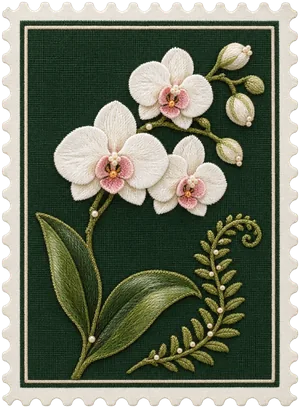
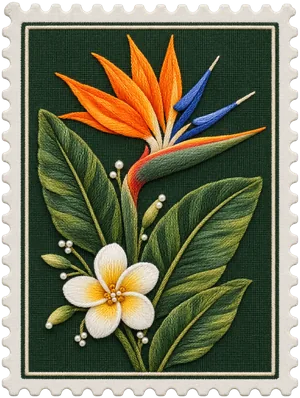
Coastal flowers, 2pm arrival, running order, pop of colour
- Every floral piece redrawn in bright coastal colour (bougainvillea,
  hibiscus, frangipani, bird-of-paradise) to match the dress code,
  including the cover arch, stamp, liner, cake and gramophone
- The Celebrations (where and when) now comes before The Details, which
  is a running order: arrive 2pm, ceremony 3pm, reception and dinner,
  carriages 11pm
- Dress code drops the accessories picture for a pop-of-colour note
- Calendar entry starts at the 2pm arrival

diff --git a/index.html b/index.html
@@ -47,8 +47,8 @@
 <!-- ============ THE ENVELOPE (shown first, opened by script.js) ============ -->
 <div class="scene" id="scene">
   <div class="scene-vignette" id="scene-vignette"></div>
-  <img class="scene-sprig scene-sprig--top" src="assets/florals-corner.webp" width="640" height="637" alt="">
-  <img class="scene-sprig scene-sprig--bottom" src="assets/fern-spray.webp" width="680" height="846" alt="">
+  <img class="scene-sprig scene-sprig--top" src="assets/coastal-corner.webp" width="640" height="667" alt="">
+  <img class="scene-sprig scene-sprig--bottom" src="assets/coastal-spray.webp" width="680" height="748" alt="">
 
   <div class="envelope" id="envelope" aria-hidden="true">
     <div class="env-back is-hidden" id="env-back">
@@ -78,7 +78,7 @@
     </div>
 
     <div class="env-front" id="env-front">
-      <img class="env-stamp" src="assets/stamp.webp" width="300" height="408" alt="">
+      <img class="env-stamp" src="assets/stamp.webp" width="300" height="398" alt="">
       <svg class="env-postmark" viewBox="0 0 200 80" focusable="false">
         <defs>
           <path id="pm-top" d="M 13 40 A 27 27 0 0 1 67 40"/>
@@ -106,7 +106,7 @@
         </g>
       </svg>
       <p class="env-to"><span class="env-recipient" id="recipient">To our favourite people</span></p>
-      <img class="env-sprig" src="assets/fern-frond.webp" width="720" height="477" alt="">
+      <img class="env-sprig" src="assets/coastal-sprig.webp" width="720" height="501" alt="">
     </div>
   </div>
 
@@ -119,8 +119,8 @@
 <!-- Wide screens only: the same sprigs as on the envelope's table, so the
      page keeps the setting once the letter is open. -->
 <div class="table-decor" id="table-decor" aria-hidden="true">
-  <img class="table-sprig table-sprig--top" src="assets/florals-corner.webp" width="640" height="637" alt="">
-  <img class="table-sprig table-sprig--bottom" src="assets/fern-spray.webp" width="680" height="846" alt="">
+  <img class="table-sprig table-sprig--top" src="assets/coastal-corner.webp" width="640" height="667" alt="">
+  <img class="table-sprig table-sprig--bottom" src="assets/coastal-spray.webp" width="680" height="748" alt="">
 </div>
 
 <main class="suite" id="invitation">
@@ -129,7 +129,7 @@
   <header class="hero" id="top">
     <article class="hero-card" id="hero-card" tabindex="-1">
       <p class="eyebrow">The wedding of</p>
-      <img class="hero-arch" src="assets/hero-arch.webp" width="997" height="1497" alt="Benjamin and Talisha in a black-and-white photograph, framed by an embroidered stone arch of roses, orchids and hanging pearls">
+      <img class="hero-arch" src="assets/hero-arch.webp" width="974" height="1499" alt="Benjamin and Talisha in a black-and-white photograph, framed by an embroidered stone arch of bougainvillea, hibiscus and frangipani">
       <h1 class="names">Benjamin <span class="amp">&amp;</span> Talisha</h1>
       <p class="hero-date">Saturday · 6 March 2027</p>
       <p class="hero-place">Collisheen Estate · Ballito</p>
@@ -139,8 +139,8 @@
 
   <!-- ============ 2. INVITATION + COUNTDOWN ============ -->
   <section class="families" id="invite" aria-labelledby="invite-title">
-    <img class="garland garland--left" src="assets/florals-vertical.webp" width="289" height="1200" alt="" loading="lazy" decoding="async">
-    <img class="garland garland--right" src="assets/florals-vertical.webp" width="289" height="1200" alt="" loading="lazy" decoding="async">
+    <img class="garland garland--left" src="assets/coastal-garland.webp" width="327" height="1200" alt="" loading="lazy" decoding="async">
+    <img class="garland garland--right" src="assets/coastal-garland.webp" width="327" height="1200" alt="" loading="lazy" decoding="async">
 
     <h2 class="script-title" id="invite-title">Please join us</h2>
     <p class="lede invite-lede">as we say &ldquo;I do&rdquo; in a little chapel among the trees</p>
@@ -158,36 +158,13 @@
       <p class="caps">Add it to your calendar</p>
       <p class="calendar-links">
         <a class="text-link" href="assets/wedding.ics">Apple &amp; Outlook</a>
-        <a class="text-link" href="https://calendar.google.com/calendar/render?action=TEMPLATE&amp;text=Benjamin%20%26%20Talisha%27s%20Wedding&amp;dates=20270306T130000Z%2F20270306T210000Z&amp;location=Orchid%20House%2C%20Collisheen%20Estate%2C%20Esenembi%20Road%2C%20Ballito&amp;details=Ceremony%20at%203pm%20in%20the%20chapel%20at%20Orchid%20House%2C%20with%20the%20reception%20to%20follow.%20https%3A%2F%2Fbenrodrigues05.github.io%2Frodrigues-wedding%2F" target="_blank" rel="noopener">Google Calendar</a>
+        <a class="text-link" href="https://calendar.google.com/calendar/render?action=TEMPLATE&amp;text=Benjamin%20%26%20Talisha%27s%20Wedding&amp;dates=20270306T120000Z%2F20270306T210000Z&amp;location=Orchid%20House%2C%20Collisheen%20Estate%2C%20Esenembi%20Road%2C%20Ballito&amp;details=Please%20arrive%20by%202pm.%20Ceremony%20at%203pm%20in%20the%20chapel%20at%20Orchid%20House%2C%20reception%20to%20follow%20until%2011pm.%20https%3A%2F%2Fbenrodrigues05.github.io%2Frodrigues-wedding%2F" target="_blank" rel="noopener">Google Calendar</a>
       </p>
     </div>
   </section>
 
 
-  <!-- ============ 3. THE DETAILS (striped linen) ============ -->
-  <section class="details" id="details" aria-labelledby="details-title">
-    <div class="details-panel">
-      <img class="motif details-tl" src="assets/fern-spray.webp" width="680" height="846" alt="" loading="lazy" decoding="async">
-      <img class="motif details-tr" src="assets/lanterns.webp" width="434" height="640" alt="" loading="lazy" decoding="async">
-      <h2 class="script-title details-title" id="details-title">The Details</h2>
-
-      <div class="event">
-        <h3 class="script-sub">The Ceremony</h3>
-        <p class="lines"><span>Orchid House Chapel</span><span>Saturday 6 March 2027</span><span>3:00 pm</span></p>
-      </div>
-      <span class="pearl-rule" aria-hidden="true"></span>
-      <div class="event">
-        <h3 class="script-sub">The Reception</h3>
-        <p class="lines"><span>Orchid House</span><span>After the ceremony</span><span>Until 11:00 pm</span></p>
-      </div>
-
-      <img class="motif details-bl" src="assets/champagne.webp" width="520" height="579" alt="" loading="lazy" decoding="async">
-      <img class="motif details-br" src="assets/cake.webp" width="409" height="640" alt="" loading="lazy" decoding="async">
-    </div>
-  </section>
-
-
-  <!-- ============ 4. THE VENUE ============ -->
+  <!-- ============ 3. THE CELEBRATIONS: where and when ============ -->
   <section class="celebrations" id="venue" aria-labelledby="venue-title">
     <h2 class="script-title" id="venue-title">The Celebrations</h2>
     <img class="motif chapel" src="assets/chapel.webp" width="1000" height="745" alt="An embroidered white chapel with a green roof beneath huge old trees strung with fairy lights" loading="lazy" decoding="async">
@@ -196,10 +173,46 @@
       <h3 class="venue-name">Orchid House</h3>
       <p class="venue-desc">A garden chapel ceremony beneath the old trees of Collisheen Estate, with the reception to follow under the fairy lights</p>
       <span class="rule" aria-hidden="true"></span>
-      <p class="venue-when"><span>Saturday 6 March 2027</span><span>3:00 pm until 11:00 pm</span></p>
+      <p class="venue-when"><span>Saturday 6 March 2027</span><span>Please arrive by 2:00 pm</span><span class="venue-when-small">for the ceremony at 3:00 pm</span></p>
       <p class="venue-address"><span>Collisheen Estate</span><span>Esenembi Road, Ballito</span></p>
       <a class="text-link" href="https://www.google.com/maps/search/?api=1&amp;query=Collisheen%20Estate%20Ballito" target="_blank" rel="noopener">View on map</a>
       <img class="venue-key" src="assets/key.webp" width="257" height="360" alt="" loading="lazy" decoding="async">
+    </div>
+  </section>
+
+
+  <!-- ============ 4. THE DETAILS: the running order (striped linen) ============ -->
+  <section class="details" id="details" aria-labelledby="details-title">
+    <div class="details-panel">
+      <img class="motif details-tl" src="assets/coastal-spray.webp" width="680" height="748" alt="" loading="lazy" decoding="async">
+      <img class="motif details-tr" src="assets/lanterns.webp" width="434" height="640" alt="" loading="lazy" decoding="async">
+      <h2 class="script-title details-title" id="details-title">The Details</h2>
+
+      <!-- TODO: reception and dinner times when confirmed -->
+      <ol class="timeline">
+        <li class="moment">
+          <p class="moment-time">2:00 pm</p>
+          <h3 class="script-sub">Guests arrive</h3>
+        </li>
+        <li class="moment">
+          <p class="moment-time">3:00 pm</p>
+          <h3 class="script-sub">The Ceremony</h3>
+          <p class="moment-note">Orchid House Chapel</p>
+        </li>
+        <li class="moment">
+          <p class="moment-time">To follow</p>
+          <h3 class="script-sub">Reception &amp; Dinner</h3>
+          <p class="moment-note">Orchid House</p>
+        </li>
+        <li class="moment">
+          <p class="moment-time">11:00 pm</p>
+          <h3 class="script-sub">Carriages</h3>
+          <p class="moment-note">Time to say goodnight</p>
+        </li>
+      </ol>
+
+      <img class="motif details-bl" src="assets/champagne.webp" width="520" height="579" alt="" loading="lazy" decoding="async">
+      <img class="motif details-br" src="assets/cake.webp" width="385" height="640" alt="" loading="lazy" decoding="async">
     </div>
   </section>
 
@@ -208,8 +221,8 @@
   <section class="dress" id="dress-code" aria-labelledby="dress-title">
     <div class="napkin">
       <div class="napkin-sprigs">
-        <img class="motif" src="assets/fern-spray.webp" width="680" height="846" alt="" loading="lazy" decoding="async">
-        <img class="motif" src="assets/fern-frond.webp" width="720" height="477" alt="" loading="lazy" decoding="async">
+        <img class="motif" src="assets/coastal-corner.webp" width="640" height="667" alt="" loading="lazy" decoding="async">
+        <img class="motif" src="assets/coastal-sprig.webp" width="720" height="501" alt="" loading="lazy" decoding="async">
       </div>
       <img class="motif guests" src="assets/guests.webp" width="1100" height="697" alt="Embroidered guests in terracotta, orange, marigold, chartreuse, fuchsia and plum gowns, and sand and forest-green suits" loading="lazy" decoding="async">
       <h2 class="script-title" id="dress-title">Dress Code</h2>
@@ -217,14 +230,17 @@
       <p class="lines lines--soft"><span>Bold, joyful colour</span><span>Silks, ruffles &amp; a little sparkle</span><span>Please avoid white</span></p>
       <img class="motif threads" src="assets/threads.webp" width="1000" height="396" alt="Spools of thread in terracotta, orange, marigold, chartreuse, emerald, fuchsia and plum" loading="lazy" decoding="async">
       <p class="palette-note">Think terracotta, marigold, chartreuse, emerald, fuchsia and plum.</p>
-      <img class="motif accessories" src="assets/accessories.webp" width="960" height="383" alt="" loading="lazy" decoding="async">
+      <div class="pop">
+        <p class="script-sub pop-title">A pop of colour</p>
+        <p class="pop-note">No need to buy a whole new outfit. If your best dress or suit isn&rsquo;t in these shades, add a splash of colour instead: a bright tie or bow tie with a dark suit, or a hat, fascinator or scarf that matches the palette.</p>
+      </div>
     </div>
   </section>
 
 
   <!-- ============ 6. WHERE TO STAY ============ -->
   <section class="stay" id="stay" aria-labelledby="stay-title">
-    <img class="motif nightstand" src="assets/nightstand.webp" width="235" height="480" alt="" loading="lazy" decoding="async">
+    <img class="motif nightstand" src="assets/nightstand.webp" width="295" height="480" alt="" loading="lazy" decoding="async">
     <h2 class="script-title" id="stay-title">Where to Stay</h2>
     <p class="caps">Good-value stays near Ballito Junction</p>
     <p class="lede">Ballito Junction is a short drive from the venue, with plenty of places to eat nearby. A few of our picks:</p>
@@ -272,7 +288,7 @@
   <!-- ============ 8. RSVP (reply card) ============ -->
   <section class="rsvp" id="rsvp" aria-labelledby="rsvp-title">
     <div class="reply-card">
-      <img class="reply-stamp" src="assets/stamp.webp" width="300" height="408" alt="" loading="lazy" decoding="async">
+      <img class="reply-stamp" src="assets/stamp.webp" width="300" height="398" alt="" loading="lazy" decoding="async">
       <h2 class="script-title" id="rsvp-title">Kindly Reply</h2>
       <p class="reply-by">by 1 December 2026</p>
       <p class="reply-note">One reply covers everyone your invitation is addressed to.</p>
@@ -335,7 +351,7 @@
   <!-- ============ 9. THE PLAYLIST (fringed napkin) ============ -->
   <section class="playlist" id="playlist" aria-labelledby="playlist-title">
     <div class="napkin napkin--playlist">
-      <img class="motif gramophone" src="assets/gramophone.webp" width="640" height="683" alt="" loading="lazy" decoding="async">
+      <img class="motif gramophone" src="assets/gramophone.webp" width="640" height="762" alt="" loading="lazy" decoding="async">
       <h2 class="script-title" id="playlist-title">The Playlist</h2>
       <p class="lede">Which songs get you on the dance floor? Suggest one or two for our wedding playlist.</p>
 

diff --git a/styles.css b/styles.css
@@ -626,13 +626,40 @@ html.js:not(.is-open) body { overflow: hidden; }
   margin-top: .2rem;
   z-index: 1;
 }
-.event {
+.timeline {                    /* the running order of the day */
   grid-column: 1 / -1;
-  display: grid;
-  gap: .55rem;
-  margin-top: 1.3rem;
+  margin: .6rem 0 0;
+  padding: 0;
+  list-style: none;
 }
-.details-panel .pearl-rule { grid-column: 1 / -1; margin-bottom: .3rem; }
+.moment {
+  display: grid;
+  justify-items: center;
+  gap: .2rem;
+  padding-block: 1.05rem;
+}
+.moment + .moment {            /* a pearl on a thread between moments */
+  padding-top: 1.6rem;
+  background:
+    radial-gradient(circle at 42% 38%, #fff 0, #F2ECE2 1.6px, #D3C8B5 4px, rgba(211, 200, 181, 0) 4.6px) 50% 0 / 10px 10px no-repeat,
+    linear-gradient(rgba(var(--shadow), .28), rgba(var(--shadow), .28)) 50% 4.5px / 6rem 1px no-repeat;
+}
+.moment-time {
+  margin: 0;
+  font: 600 .8rem/1.4 var(--font-serif);
+  letter-spacing: .26em;
+  padding-left: .26em;
+  text-transform: uppercase;
+  color: var(--sage-deep);
+}
+.moment-note {
+  margin: 0;
+  font: 600 .74rem/1.5 var(--font-serif);
+  letter-spacing: .16em;
+  padding-left: .16em;
+  text-transform: uppercase;
+  color: var(--ink-soft);
+}
 .details-bl {
   grid-column: 1;
   width: 66%;
@@ -679,6 +706,7 @@ html.js:not(.is-open) body { overflow: hidden; }
   font-style: italic;
   font-size: 1.3rem;
 }
+.venue-when-small { font-size: 1.08rem; color: var(--ink-soft); }
 .venue-address {
   display: grid;
   margin: 0 0 .3rem;
@@ -746,7 +774,9 @@ html.js:not(.is-open) body { overflow: hidden; }
   text-wrap: balance;
   color: var(--ink-soft);
 }
-.dress .accessories { width: 86%; margin: 1.5rem auto 0; }
+.pop { max-width: 30ch; margin: 1.9rem auto 0; }
+.pop-title { font-size: clamp(1.7rem, 7.4vw, 2.1rem); }
+.pop-note { margin: .45rem 0 0; font-style: italic; text-wrap: balance; color: var(--ink-soft); }
 
 
 /* --- 6. where to stay --- */
